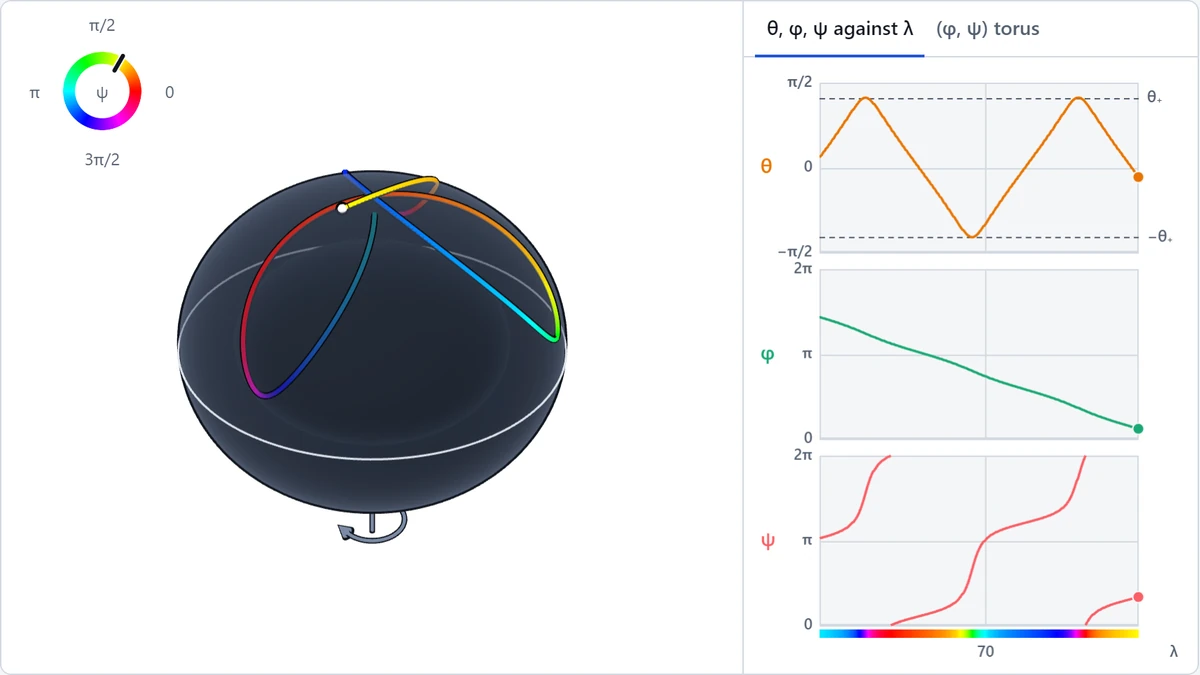
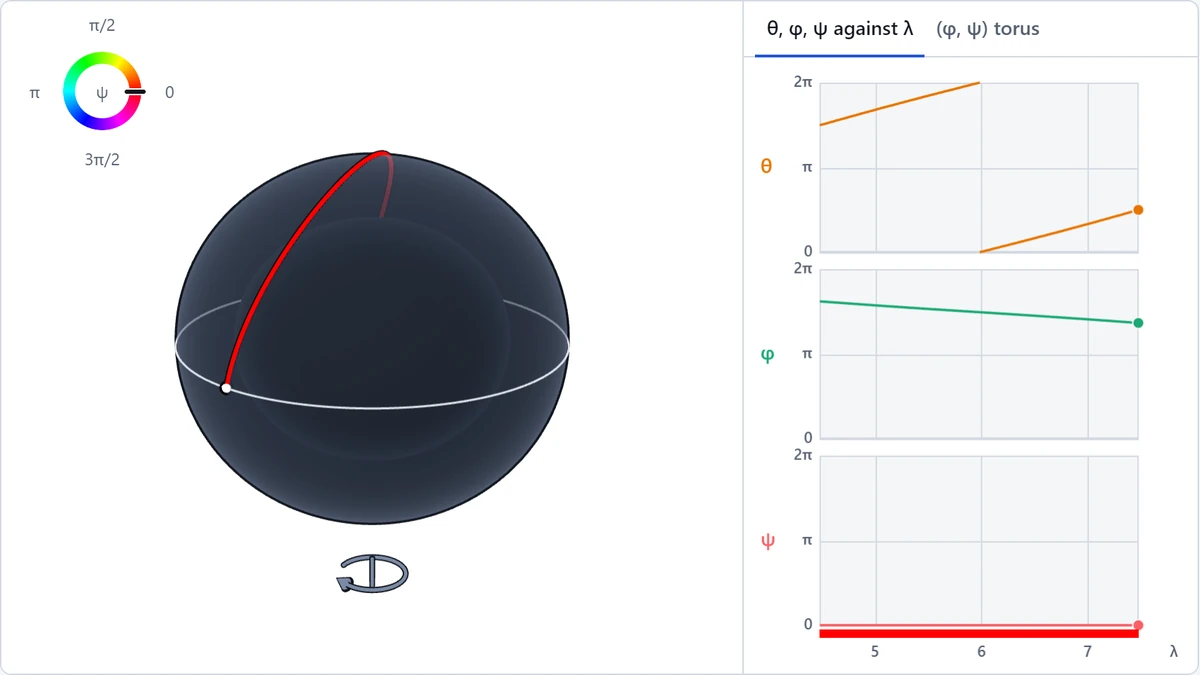
Open on zero momenta with the shortest trail, and drop the figure numbers from the presets, as v1.1.0

diff --git a/demo/src/presets.js b/demo/src/presets.js
@@ -1,11 +1,12 @@
-// The presets: the paper's figures, each matched to the figure itself, and two special holes. Figs 4.4 and 4.5 show
-// the same orbit, a short stretch and a long one, so now that the trail's length is the visitor's they share one
-// preset, with Fig 4.5's viewpoint and colours.
+// The presets: the paper's figures, each matched to the figure itself, and two special holes. The drop-down doesn't
+// name the figures (Mark, 2026-11-21), so each one's figure is in the comment above it. Figs 4.4 and 4.5 show the
+// same orbit, a short stretch and a long one, so now that the trail's length is the visitor's they share one preset,
+// with Fig 4.5's viewpoint and colours.
 //
 // Each sets the spins and momenta, and:
 // - span: the figure's stretch of path, as [from, to] in the angle variable χ, which is 0 at θ_min and grows by 2π
 //   each oscillation. The photon starts at `to`. The trail's length is the visitor's, so `from` only records the
-//   figure's, except for the opening state, whose trail reaches back to it.
+//   figure's.
 // - psi0: ψ at χ = 0, which sets the colours and the side panel's ψ.
 // - view: the direction the camera looks from, as [azimuth, elevation] in degrees about the hole, with z up. The
 //   zoom is the visitor's.
@@ -23,26 +24,31 @@ const PI = Math.PI;
 const DEFAULT_VIEW = [-61.56, 36.2]; // Mathematica's default viewpoint, (1.3, −2.4, 2)
 
 export const PRESETS = [
-  { name: 'Fig 4.2: zero momenta', a: 0.5, b: 0, Phi: 0, Psi: 0, span: [PI, 5 * PI], psi0: 0, view: [287.6, 18.1] },
-  { name: 'Fig 4.3: Φ = 2', a: 0.5, b: 0, Phi: 2, Psi: 0, span: [4.765, 318.893], psi0: 0, view: [231, 12.3] },
-  { name: 'Figs 4.4, 4.5: Φ = 0, Ψ = 0.5', a: 0.8, b: 0, Phi: 0, Psi: 0.5, span: [3.09, 170.017], psi0: 1.688, view: [254.9, 33.5] },
-  { name: 'Fig 4.6: the “football”', a: 0, b: 0.99, Phi: 0, Psi: 0, span: [0, 4 * PI], psi0: 2.725, view: [21.2, 0] },
-  { name: 'Fig 4.7: two spins', a: 0.6, b: 0.3, Phi: 1, Psi: -1, span: [3.523, 136.789], psi0: 3.434, view: [303.8, 22.8] },
+  // Fig 4.2
+  { name: 'Zero momenta', a: 0.5, b: 0, Phi: 0, Psi: 0, span: [PI, 5 * PI], psi0: 0, view: [287.6, 18.1] },
+  // Fig 4.3
+  { name: 'Φ = 2', a: 0.5, b: 0, Phi: 2, Psi: 0, span: [4.765, 318.893], psi0: 0, view: [231, 12.3] },
+  // Figs 4.4 and 4.5
+  { name: 'Φ = 0, Ψ = 0.5', a: 0.8, b: 0, Phi: 0, Psi: 0.5, span: [3.09, 170.017], psi0: 1.688, view: [254.9, 33.5] },
+  // Fig 4.6
+  { name: 'The “football”', a: 0, b: 0.99, Phi: 0, Psi: 0, span: [0, 4 * PI], psi0: 2.725, view: [21.2, 0] },
+  // Fig 4.7
+  { name: 'Two spins', a: 0.6, b: 0.3, Phi: 1, Psi: -1, span: [3.523, 136.789], psi0: 3.434, view: [303.8, 22.8] },
+  // Fig 4.8
   {
-    name: 'Fig 4.8: cusps, extremal', a: 0.9, b: 0.1, Phi: 0.8, Psi: 0.8, span: [0, 33.696], psi0: 3.683, view: [104.1, 29.1],
+    name: 'Cusps, extremal', a: 0.9, b: 0.1, Phi: 0.8, Psi: 0.8, span: [0, 33.696], psi0: 3.683, view: [104.1, 29.1],
     lam0: 0.076, phi0: 1.6122,
   },
+  // Fig 4.10
   {
-    name: 'Fig 4.10: φ and ψ turn back', a: 0.9, b: 0.09, Phi: 0.1, Psi: 0.01, span: [4.2418, 13.262], psi0: -0.0249, view: [117.1, 28.5],
+    name: 'φ and ψ turn back', a: 0.9, b: 0.09, Phi: 0.1, Psi: 0.01, span: [4.2418, 13.262], psi0: -0.0249, view: [117.1, 28.5],
     lam0: 0.7509, phi0: -1.5887,
   },
-  // Fig 4.12 is on the edge of the region, a circular orbit at θ = 45°: one turn of φ.
-  { name: 'Fig 4.12: constant θ', a: 0.5, b: 0.25, Phi: -0.929241, Psi: 0.903667, span: [0, 9.8301], psi0: 1.099, view: [232, 32] },
+  // Fig 4.12, on the edge of the region: a circular orbit at θ = 45°, one turn of φ.
+  { name: 'Constant θ', a: 0.5, b: 0.25, Phi: -0.929241, Psi: 0.903667, span: [0, 9.8301], psi0: 1.099, view: [232, 32] },
   { name: 'Equal spins (a = b)', a: 0.4, b: 0.4, Phi: 1.2, Psi: -0.5, span: [0, 12 * PI], psi0: 0, view: DEFAULT_VIEW },
   { name: 'No spin', a: 0, b: 0, Phi: 0.8, Psi: 0.6, span: [0, 4 * PI], psi0: 0, view: DEFAULT_VIEW },
 ];
 
-// The opening state (Mark, 2026-11-20): Fig 4.5's orbit, moment, colours and viewpoint, with only the last three
-// oscillations of trail rather than the figure's 27.
-const PETALS = PRESETS.find((preset) => preset.name.startsWith('Figs 4.4, 4.5'));
-export const OPENING = { ...PETALS, span: [PETALS.span[1] - 6 * PI, PETALS.span[1]] };
+// The opening state (Mark, 2026-11-21): the zero momenta preset, Fig 4.2, with the shortest trail.
+export const OPENING = PRESETS[0];

diff --git a/demo/src/main.js b/demo/src/main.js
@@ -38,7 +38,7 @@ const controls = {
   preset: select({
     label: 'Preset',
     options: [{ label: 'Custom', value: null }, ...PRESETS.map((preset) => ({ label: preset.name, value: preset }))],
-    value: PRESETS.find((preset) => preset.name === OPENING.name),
+    value: OPENING,
   }),
   spins: spins({ value: [OPENING.a, OPENING.b] }),
   momenta: pad({ spins: [OPENING.a, OPENING.b], value: [OPENING.Phi, OPENING.Psi] }),
@@ -47,6 +47,7 @@ const controls = {
     min: Math.log10(TRAIL[0]),
     max: Math.log10(TRAIL[1]),
     step: 0.01,
+    value: Math.log10(TRAIL[0]),
     format: (value) => `λ ${Math.round(10 ** value)}`,
   }),
 };
@@ -58,7 +59,7 @@ const viewSize = { width: 0, height: 0 }; // of the 3D view, beside the panel
 let current = null; // { key, orbit, table, path, … }, or { key, orbit, … } with no path when there is no orbit
 let lam = 0; // the photon's λ
 let chi = 0; // and its χ, which keeps its place in the oscillation when the orbit changes
-let length = 0; // the trail's, in λ: the opening's exactly, until the slider (which rounds it) moves
+let length = TRAIL[0]; // the trail's, in λ: the shortest, to begin with (Mark, 2026-11-21)
 let start = OPENING; // the preset last chosen: where Reset puts the photon back
 // The origins of ψ, φ and λ, which are arbitrary: a preset's, fitted to its figure, or 0 once the state is custom.
 let psi0 = OPENING.psi0; // ψ at χ = 0, which sets the colours and the panel's ψ
@@ -219,8 +220,6 @@ function build() {
 }
 
 apply(OPENING);
-length = lam - lamAt(current.path, OPENING.span[0]);
-controls.trail.value = Math.log10(length);
 try {
   build();
 } catch (error) {

diff --git a/demo/test/momenta.test.js b/demo/test/momenta.test.js
@@ -89,13 +89,12 @@ test('every fraction up to the edge is allowed, so the region is star-shaped as 
   }
 });
 
-test('every preset has an orbit, and the opening state is Fig 4.5 with three oscillations of trail', () => {
-  const petals = PRESETS.find((preset) => preset.name === OPENING.name);
-  assert.ok(petals.name.startsWith('Figs 4.4, 4.5'));
-  assert.deepEqual(petals.view, [254.9, 33.5]); // Fig 4.5's
-  assert.deepEqual({ ...OPENING, span: petals.span }, petals);
-  assert.ok(Math.abs(OPENING.span[1] - OPENING.span[0] - 6 * Math.PI) < 1e-12);
-  for (const preset of [...PRESETS, OPENING]) {
+test('every preset has an orbit, no preset names its figure, and the opening state is zero momenta', () => {
+  assert.equal(OPENING.name, 'Zero momenta');
+  assert.deepEqual([OPENING.Phi, OPENING.Psi], [0, 0]);
+  assert.ok(PRESETS.includes(OPENING));
+  for (const preset of PRESETS) {
+    assert.doesNotMatch(preset.name, /Fig/, preset.name);
     const { a, b, Phi, Psi, span, view } = preset;
     assert.ok(a + b <= 1 + 1e-12, preset.name);
     assert.ok(allowed(a, b, Phi, Psi), preset.name);

diff --git a/scripts/stills.py b/scripts/stills.py
@@ -1,7 +1,7 @@
 """Renders the demo's still images from the built demo, in a real browser.
 
-- static.webp: the opening state, Fig 4.5's orbit with the side panel beside it, shown while the
-  demo loads and without JavaScript.
+- static.webp: the opening state, the zero momenta orbit with the side panel beside it, shown
+  while the demo loads and without JavaScript.
 - thumb.webp and og.jpg: the 3D view alone, on CARD's orbit and trail, at the default zoom, for the
   project card and link previews. The page's address ends in ?card, so the demo leaves out the spin
   arrow.

diff --git a/docs/plan.md b/docs/plan.md
@@ -111,8 +111,8 @@ Everything else checks out exactly, and the figure parameters reproduce every fi
 | Momenta | A square pad in the controls rail: Φ across and Ψ up, on fixed axes from −3 to 3, so the region visibly reshapes as the spins change. The allowed region is tinted by the orbit's radius, darker for orbits closer in, with a key in the pad's corner (Mark, 2026-11-20), and the current orbit is a dot to drag. With spin, the halves are labelled "with a" and "against a", and "with b" and "against b". Below the pad, sliders for Φ and Ψ give fine and keyboard control; each stops at the region's edge. When a or b changes, the dot keeps its direction from the origin and its fraction of the way to the edge, so the orbit keeps its character as the region changes shape. |
 | Trail | A "Trail length" slider in λ, on a log scale from about one oscillation (λ ≈ 3) to about 100 (λ ≈ 300). The trail fades towards its tail. Its length is the visitor's: presets leave it alone (Mark, 2026-11-20). |
 | Animation | Play/Pause and Reset come from the kit. The photon moves at a steady rate in λ, about one oscillation every 1.5 s. A change to any control keeps the photon's place in its oscillation and redraws its past path for the new orbit at once, so the trail is never empty. The animation starts paused under reduced motion. |
-| Presets | A drop-down: the paper's Figs 4.2, 4.3, 4.4 and 4.5 (one preset: the same orbit), 4.6, 4.7, 4.8 and 4.10 (4.9 and 4.11 plot the same orbits against λ) and 4.12. Also "Equal spins (a = b)", where every orbit's radius depends only on Φ + Ψ, and "No spin", the Tangherlini case, where every orbit is a great circle with r = √2. Each preset sets a, b, Φ, Ψ, the starting point, the colours and the direction the camera looks from, fitted to the figure's image ([research/scripts/presets/](research/scripts/presets/)). The trail's length and the zoom stay as the visitor left them. Any change of the visitor's own shows "Custom", and measures ψ, φ and λ from 0 at θ_min, so an orbit with Ψ = 0 around a hole with b = 0 is red, as in pictures of Kerr orbits (Mark, 2026-11-20). Reset puts the photon back where the last preset started it. |
-| Opening state | Fig 4.5's orbit, moment, colours and viewpoint, with three oscillations of trail rather than the figure's 27 (Mark, 2026-11-20). The drop-down shows Figs 4.4 and 4.5's preset. |
+| Presets | A drop-down: the paper's Figs 4.2, 4.3, 4.4 and 4.5 (one preset: the same orbit), 4.6, 4.7, 4.8 and 4.10 (4.9 and 4.11 plot the same orbits against λ) and 4.12. Also "Equal spins (a = b)", where every orbit's radius depends only on Φ + Ψ, and "No spin", the Tangherlini case, where every orbit is a great circle with r = √2. The names don't say which figure each is (Mark, 2026-11-21). Each preset sets a, b, Φ, Ψ, the starting point, the colours and the direction the camera looks from, fitted to the figure's image ([research/scripts/presets/](research/scripts/presets/)). The trail's length and the zoom stay as the visitor left them. Any change of the visitor's own shows "Custom", and measures ψ, φ and λ from 0 at θ_min, so an orbit with Ψ = 0 around a hole with b = 0 is red, as in pictures of Kerr orbits (Mark, 2026-11-20). Reset puts the photon back where the last preset started it. |
+| Opening state | The "Zero momenta" preset, Fig 4.2, with the shortest trail, λ = 3 (Mark, 2026-11-21). |
 | 3D view | Drag to rotate. Zoom with buttons and pinch, while the mouse wheel keeps scrolling the page. The zoom is the visitor's, and stays put through presets and every control, so an orbit's size on screen is its size (Mark, 2026-11-20). The default zoom fits every orbit's spheroid, and a "Reset view" button goes back to it and to the last preset's viewpoint. An arrow below the spheroid shows which way the hole turns in the a-plane: towards −φ, clockwise seen from above. It is below because most paths are on the upper half (Mark, 2026-11-20), and is hidden when a = 0. The b-plane's turning shows only in ψ, so its arrow goes round the colour wheel, towards −ψ, and is hidden when b = 0. |
 | Side panel | θ, φ and ψ against λ over the visible trail, as in Figs 4.9 and 4.11: three rows sharing the λ axis, with the photon marked at the right-hand end. Dashed lines mark the band's edges, θ₋ and θ₊. φ and ψ run from 0 to 2π, as on the torus, and wrap at the edges, so no row's axis shifts (Mark, 2026-11-20). A band under ψ shows the trail's colour at each λ. Through an axis, θ, φ and ψ run on smoothly in the 3D view's signed coordinates (step 4). A second tab shows the (φ, ψ) torus: a square in which the path wraps around. It shows ψ without colour and makes quasiperiodicity visible. |
 | Readouts | The status line gives r, the θ band and the advance per oscillation in turns, for example "r = 1.32 · θ from 37.6° to 51.5° · per swing: φ +0.34 turns, ψ −0.61 turns". If the dot ever lands outside the region, it says "No spherical orbit for these momenta". |
@@ -295,6 +295,7 @@ Mark set the status to `live` on 2026-11-21, in `v1.0.0`, ahead of the rest of t
   - `static.webp` and `static-light.webp`: the opening state, the 3D view and the side panel, as a visitor first sees them, without the zoom buttons.
   - `thumb.webp`, `thumb-light.webp` and `og.jpg`: the 3D view alone, at the default zoom, without the colour key or the spin arrow (Mark, 2026-11-21; v1.0.2, with `?card` in the address), on the Equal spins preset's orbit (a = b = 0.4) with a trail of λ = 100 (Mark chose it, 2026-11-21, over Fig 4.10's). `og.jpg` is dark only: link previews have no theme.
   - The demo starts paused under reduced motion, so every still is of the same moment, and the two themes show the same thing.
+- [x] **New defaults** (Mark, 2026-11-21). The demo opens on the "Zero momenta" preset with the shortest trail, λ = 3, and the presets' names no longer say which figure they are: "Zero momenta", "Φ = 2", "Φ = 0, Ψ = 0.5", "The “football”", "Two spins", "Cusps, extremal", "φ and ψ turn back", "Constant θ". `static.webp` and `static-light.webp` show the new opening. v1.1.0.
 - [x] **Manifest.** The tags stay as they are (Mark, 2026-11-21), and the release sets `built`. There is no `about`: the site's project page now has a "More info" tab with Mark's write-up, and the frame would show "How this works" under the demo, repeating it. The status is `live` since `v1.0.0` (Mark, 2026-11-21).
 - [x] **Site:** Mark wrote the write-up, as questions that open, on the project page's "More info" tab (2026-11-21). Checked in Edge on the live site: opened on "More info", then switched to "Demo", the 3D view and the side panel come up at their full size, with no console errors.
 
@@ -322,7 +323,7 @@ Settled with Mark on 2026-11-20. The comparison page, <https://claude.ai/artifac
 | demo-kit | v0.5.0. |
 | Errata | Whether to post a corrected arXiv version is decided later. |
 | Blue strands | No light edge: blue is dim against the spheroid (1.6–1.7:1) but reads by hue (step 2). |
-| Opening state | Fig 4.5's orbit and viewpoint, with three oscillations of trail (step 3). |
+| Opening state | Fig 4.5's orbit and viewpoint, with three oscillations of trail (step 3); since v1.1.0, the zero momenta preset with the shortest trail (step 5). |
 | The pad's region | Tinted by the orbit's radius (step 3). |
 | The side panel through an axis | Smooth, in the 3D view's signed coordinates: "jumps are purely artifacts of coordinate systems" (step 4). |
 | Fig 4.8's colour offset | Follows Fig 4.8's colours rather than Fig 4.9's ψ curve; Mark left it to Claude (step 4). |
